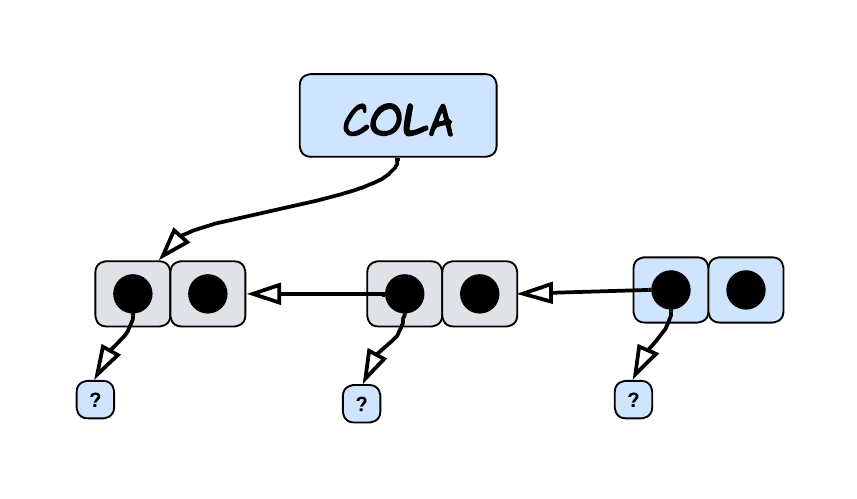
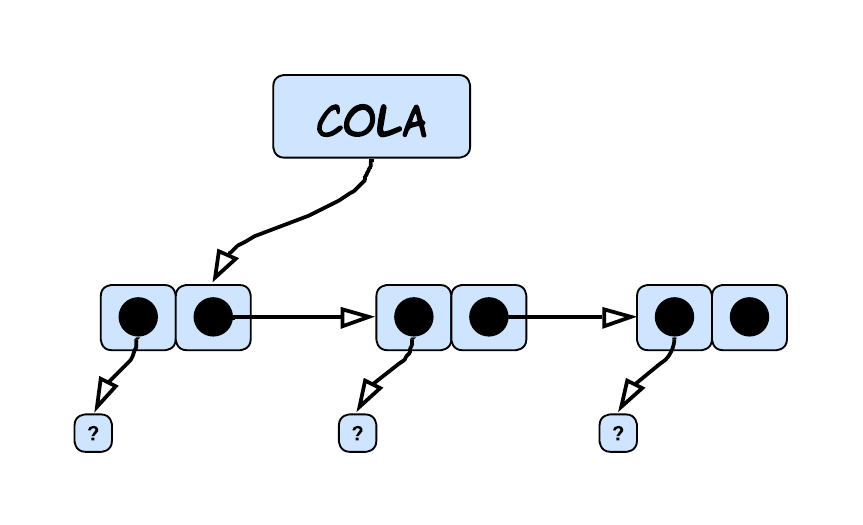
Termino pregunta 1 y 2

Changed region(s): [[0.0607, 0.1202, 0.9405, 0.8717]]

diff --git a/README.md b/README.md
@@ -193,9 +193,9 @@ Esta función es muy útil a la hora de querer insertar, eliminar y buscar un el
 
 ## Respuestas a las preguntas teóricas 
 
-**1.** Una Lista, Pila y Cola son tipos de datos abstractos (TDA), los cuales nos permiten almacenar elementos de cualquier tipo de dato. Cada uno de estos TDA tienen un conjunto mínimo de operaciones, algunas son similares entre los TDA y otras no tanto. El conjunto mínimo de operaciones son los siguientes: *crear*, *destruir*, *insertar*, *eliminar*, *vacía* y *ver elemento*.
+**1.** Una Lista, Pila y Cola son tipos de datos abstractos (TDA), los cuales nos permiten almacenar elementos de cualquier tipo de dato. Cada uno de estos TDA tienen un conjunto mínimo de operaciones, los cuales son los siguientes: *crear*, *destruir*, *insertar*, *eliminar*, *vacía* y *ver elemento*.
 
-Las operaciones de *crear**, *destruir* y *vacía*, funcionan de la misma manera en los tres TDA. La función que cumplen es crear, destruir y determinar si tiene elementos una lista, cola o pila. Las que valen la pena hacer hincapié en cada TDA son la de *insertar*, *eliminar* y *ver elemento*, pues estas si son diferentes en cada uno.
+Las operaciones de *crear**, *destruir* y *vacía* funcionan de la misma manera en los tres TDA. La función que cumplen es crear, destruir y determinar si tiene elementos una lista, cola o pila. Las que valen la pena hacer hincapié en cada TDA son la de *insertar*, *eliminar* y *ver elemento*, pues estas si son diferentes en cada uno.
 
 **LISTA**: Para este TDA, se puede utilizar la implementación de lista simplemente enlazada con una referencia al primer elemento y al último.
 
@@ -207,21 +207,21 @@ Las operaciones de *crear**, *destruir* y *vacía*, funcionan de la misma manera
 
 ---
 
-- La operación de *insertar* no tiene ninguna restricción, el usuario puede insertar un elemento en cualquier parte de mi lista, si es que esta posición existe. A la hora de insertar un elemento pueden darse 3 casos diferentes.
+- La operación de *insertar* no tiene ninguna restricción, el usuario puede insertar un elemento en cualquier parte de la lista, si es que esta posición existe. A la hora de insertar un elemento pueden darse tres casos situaciones.
 
-  - *1)* El primer caso consiste en querer insertar un elemento en la primera posición de mi lista. 
+  - *1)* Insertar un elemento en la primera posición de mi lista.
 
-  - *2)* El segundo caso consiste en insertar un elemento en la última posición de mi lista.
+  - *2)* Insertar un elemento en la última posición de mi lista.
 
-  - *3)* El último caso consiste en querer insertar el elemento en una posición aleatoria, puede ser en la primera, medio o final.
+  - *3)* Insertar el elemento en una posición aleatoria, puede ser en la primera, medio o final.
 
-- Para la operación de *eliminar* tampoco nos encontramos con alguna restricción, el usuario puede eliminar elementos de cualquier posición, también si es que dicha posición existe. En esta también se pueden dar 3 casos diferentes.
+- Para la operación de *eliminar* tampoco nos encontramos con alguna restricción, el usuario puede eliminar elementos de cualquier posición, también si es que dicha posición existe. En esta también se pueden dar tres casos situaciones.
 
-  - *1)* El primer caso consiste en querer eliminar el elemento que está en la primera posición.
+  - *1)* Eliminar el elemento que está en la primera posición. 
 
-  - *2)* El segundo caso consiste en querer eliminar el elemento que se encuentra en una posición aleatoria, puede ser la primera, una cualquiera o la última.
+  - *2)* Eliminar el elemento que se encuentra en una posición aleatoria, puede ser la primera, una cualquiera o la última.
 
-  - *3)* Por último el tercer caso consiste en querer eliminar el elemento que se encuentra en la última posición.
+  - *3)* Eliminar el elemento que se encuentra en la última posición.
 
 - Por último para la operación de *ver elemento*, el usuario puede ver cualquier elemento que se encuentre en la lista.
 
@@ -261,81 +261,82 @@ Como los TDA anteriores, una cola lo que hace es almacenar elementos, pero en es
 
 - Por último la operación de *ver elemento*, consiste en que el usuario solamente puede ver el elemento que está en la primera posición.
 
-**2.** Hay distintas formas de poder implementar el TDA de lista, en este caso voy a comparar tres diferentes implementaciones: lista *simplemente enlazada*, *doblemente enlazada* y *vector dinámico*. Para cada una de estas implementaciones voy a analizar cómo se inserta, obtiene y elimina un elemento en diferentes posiciones.
+**2.** Hay distintas formas de poder implementar el TDA de lista, en este caso voy a comparar tres diferentes implementaciones: lista *simplemente enlazada*, *doblemente enlazada* y *vector dinámico*. Para cada una de estas implementaciones voy a analizar cómo se inserta, obtiene y elimina un elemento en diferentes posiciones. En el caso de los nodos, vamos a tener un puntero al primer elemento y al ultimo de la lista. No uso esa implementacion para el vector, pues no tiene sentido.
 
-Antes de empezar a explicar las operaciones, voy a mencionar por encima como funciona cada implementación. El *vector dinámico* consiste en tener un vector de un tamaño no fijo, el cual puedo ir agrandando o reduciendo a medida que se insertan o eliminan elementos. La lista *simplemente enlazada* y *doblemente enlazada* consisten en utilizar un TDA llamado nodos. Los nodos almacenan dos cosas, un elemento `(void*)` y la dirección de memoria del nodo que le sigue (en el caso de la doblemente enlazada tengo la direccion del anterior y el siguiente), pues los nodos funcionan como una especie de vector dinámico, el cual nos permite almacenar elementos sin necesidad de tener bloques contiguos de memoria libre.
+Antes de empezar a explicar las operaciones, voy a mencionar por encima como funciona cada implementación. El *vector dinámico* consiste en tener un vector de un tamaño no fijo, el cual puedo ir agrandando o reduciendo a medida que se insertan o eliminan elementos. La lista *simplemente enlazada* y *doblemente enlazada* consisten en utilizar un TDA llamado nodos. Los nodos almacenan un elemento `(void*)` y la dirección de memoria del nodo que le sigue (en el caso de la doblemente enlazada tengo la direccion del anterior y el siguiente), pues los nodos funcionan como una especie de vector dinámico, el cual nos permite almacenar elementos sin necesidad de tener bloques contiguos de memoria libre.
+
 La forma la cual tendrán estas implementaciones sería la siguiente:
 
 ---
 
 <div align="center">
-<img width="80%" src="img/implementaciones.png">
+<img width="100%" src="img/implementaciones.png">
 </div>
 
 ---
 
 Si queremos insertar, eliminar o ver un elemento en una lista, se pueden dar 3 casos diferentes:
 
-- El primero sería insertar un elemento en la primera posición de nuestra lista. En el caso de la lista *simplemente enlazada* lo que debemos hacer es usar la referencia de `nodo_inicio` para hacer que `nodo_nuevo` apunte a donde estaba apuntando `nodo_inicio`, luego `nodo_inicio` debe apuntar a `nuevo_nodo`. Para la *doblemente enlazada* se realiza una operación similar, con la única diferencia de que `nodo_primero` apunta a `nodo_nuevo`. La complejidad de estos casos es `O(1)`, pues lo único que estamos haciendo son operaciones simples, como asignar nuevas direcciones de memoria a punteros. En cuanto al caso del *vector dinámico* lo que debemos hacer, en el peor de los casos, es agrandar el bloque de memoria usando `realloc()`. Por lo tanto estamos realizando una operación de `O(n)`. Además debemos correr todos los elementos un lugar a la derecha, a partir de la primera posición, para así poder "dejarle el lugar" al nuevo elemento (otra operación `O(n)`). Pero finalmente la complejidad total de insertar seria `O(n)`, la cual es peor a la de la implementación de *simplemente enlazada* y  *doblemente enlazada*.
+- El primero sería insertar un elemento en la primera posición de nuestra lista. En el caso de la lista *simplemente enlazada* lo que debemos hacer es usar el puntero `nodo_inicio` para hacer que `nodo_nuevo` apunte a donde esta apuntando `nodo_inicio`, luego `nodo_inicio` debe apuntar a `nuevo_nodo`. Para la *doblemente enlazada* se realiza una operación similar, con la única diferencia de que `nodo_primero` apunta a `nodo_nuevo`. La complejidad de estos casos es `O(1)`, pues lo único que estamos haciendo son operaciones simples, como asignar nuevas direcciones de memoria a punteros. En cuanto al caso del *vector dinámico* lo que debemos hacer, en el peor de los casos, es agrandar el bloque de memoria usando `realloc()`. Por lo tanto estamos realizando una operación `O(n)`. Además debemos correr todos los elementos un lugar a la derecha a partir de la primera posición para así poder "dejarle el lugar" al nuevo elemento, otra operación `O(n)`. Pero finalmente la complejidad total de insertar seria `O(n)`, pues terminaria siendo una suma de operaciones `O(n)`. Aun asi, veamos que es peor a la implementación de *simplemente enlazada* y  *doblemente enlazada*.
 
 ---
 
 <div align="center">
-<img width="80%" src="img/insertar_principio.png">
+<img width=100%" src="img/insertar_principio.png">
 </div>
 
 ---
 
-- En cuanto a querer eliminar un elemento, en la lista *simplemente enlazada*, usamos la referencia que tiene `nodo_inicio` al `nodo_primero` y hacemos que un puntero `aux` apunte a `nodo_primero`. Luego `nodo_primero` debe apuntar al siguiente de `nodo_inicio`. En el caso de la *doblemente enlazada* también es muy similar el proceso, solo que ahora no necesitamos usar un `aux`, directamente accedemos a `nodo_eliminar` y hacemos que `nodo_inicio` apunte a `nodo_primero`, luego `nodo_primero` apunta a `NULL`.En ambas implementaciones la complejidad total seria `O(1)`, pues solamente estamos haciendo operaciones simples. Ahora en el caso de la implementación de *vector dinámico*, lo que deberíamos hacer es eliminar el elemento que está en la primera posición y luego mover todos los elementos restantes un lugar a la izquierda. También nuevamente debemos usar `realloc()`. Por lo tanto la complejidad de toda esta operación es `O(n)`, luego veamos que también es peor en comparación con la implementación de nodos.
+- En cuanto a querer eliminar un elemento, en la lista *simplemente enlazada* usamos el puntero `nodo_inicio` y hacemos que un puntero `aux` apunte a `nodo_primero`. Luego `nodo_inicio` debe apuntar al siguiente de `nodo_primero`. En el caso de la *doblemente enlazada* también es muy similar el proceso, solo que ahora no necesitamos usar un `aux`. Ahora usando `nodo_inicio` accedemos a `nodo_eliminar` y hacemos que `nodo_inicio` apunte al siguiente de `nodo_eliminar`, luego el puntero por izquierda de del siguiente a `nodo_eliminar` debe apuntar a `NULL`. En ambas implementaciones la complejidad total seria `O(1)`, pues solamente estamos haciendo operaciones simples. Ahora en el caso de la implementación de *vector dinámico*, lo que deberíamos hacer es eliminar el elemento que está en la primera posición y luego mover todos los elementos restantes un lugar a la izquierda. A su vez nuevamente debemos usar `realloc()`. Por lo tanto la complejidad de toda esta operación es `O(n)`, luego veamos que también es peor en comparación con la implementación de nodos.
 
 ---
 
 <div align="center">
-<img width="80%" src="img/eliminar_principio.png">
+<img width="100%" src="img/eliminar_principio.png">
 </div>
 
 ---
 
-- Por último, si queremos ver un elemento en la primera posición. Para todas las implementaciones la complejidad es `O(1)`, pues lo único que debemos hacer es ir a una dirección de memoria del primer elemento, de esta en los tres casos tenemos una referencia directa.
+- Por último, si queremos ver un elemento en la primera posición, para todas las implementaciones la complejidad es `O(1)`. Pues lo único que debemos hacer acceder a la dirección de memoria del primer elemento, de esta en los tres casos tenemos una puntero directo. En el caso de los nodos `nodo_inicio` y en el del vector solo basta con hacer `vector[0]`.
 
-- El segundo caso sería querer insertar un elemento en la posición `n`. En la lista *simplemente enlazada* lo que debemos hacer es recorrer los nodos hasta llegar a `n-1`, sería el anterior a donde queremos insertar. Ahora`nodo_nuevo` debe apuntar a donde está apuntando `nodo_anterior`, y `nodo_anterior` debe apuntar a `nodo_nuevo`. En la lista *doblemente enlazada* también es muy similar el proceso, la única diferencia es que ahora debemos hacer que `nuevo_nodo` apunte a `nodo_anterior` y`nodo_siguiente`, y viceversa. Veamos que para esta implementación la complejidad `O(n)`, pues debemos recorrer hasta la posición `n-1` y hacer algunas operaciones simples que no aportan al tamaño del problema. Por último para el *vector dinámico* debemos agrandar nuevamente el bloque de memoria con `realloc()` y mover todos los elementos un lugar a la derecha, a partir la posición `n`, para así poder insertar el nuevo elemento. Por lo tanto en este caso también la complejidad sería `O(n)`, pero si lo comparamos con la  implementación de nodos esta resulta ser peor, pues realizamos 3 operaciones de `O(n)`
+- El segundo caso sería querer insertar un elemento en la posición `n`. En la lista *simplemente enlazada* lo que debemos hacer es recorrer los nodos hasta llegar a `n-1`, sería el anterior a donde queremos insertar. Ahora `nodo_nuevo` debe apuntar a donde está apuntando `nodo_anterior` y `nodo_anterior` debe apuntar a `nodo_nuevo`. En la lista *doblemente enlazada* también es muy similar el proceso, la única diferencia es que ahora debemos hacer que `nuevo_nodo` apunte a `nodo_anterior`, `nodo_siguiente`, y viceversa. Veamos que para esta implementación la complejidad es `O(n)`, pues debemos recorrer hasta la posición `n-1` y hacer algunas operaciones simples que no aportan al tamaño del problema. Para el *vector dinámico* debemos agrandar nuevamente el bloque de memoria con `realloc()` y mover todos los elementos un lugar a la derecha a partir la posición `n`, para así poder insertar el nuevo elemento. Por lo tanto en este caso también la complejidad sería `O(n)`, pero si lo comparamos con la  implementación de nodos esta resulta ser peor, pues realizamos tres operaciones de `O(n)`.
 
 ---
 
 <div align="center">
-<img width="80%" src="img/insertar_medio.png">
+<img width="100%" src="img/insertar_medio.png">
 </div>
 
 ---
 
-- Para eliminar un elemento en la posición `n`, en la lista *simplemente enlazada* debemos recorrer hasta `n-1` y usar `nodo_anterior` para que un `aux` apunte a `nodo_eliminar`. Antes de eliminarlo debemos hacer que `nodo_anterior` apunte a donde estaba apuntado `nodo_eliminar`. En la lista *doblemente enlazada* debemos hacer lo mismo solo que ahora recorremos hasta la posición `n` y usando las referencias que tiene `nodo_eliminar` para que los nodos que tiene a su lado se apunten entre sí. Veamos que para ambos casos la operación es `O(n)`, pues en el peor de los casos recorremos hasta la `n`, `n-1` posición de la lista. Ahora viendo el caso del *vector dinámico* lo que habría que hacer es recorrer hasta la posición `n` y pisarla con el elemento de la posición `n+1` y así a `n+1` lo pisamos con `n+2`. Luego debemos mover todos los elementos a una posición a la izquierda y por último usar `realloc()`. Pero aún así, veamos que la operación es `O(n)`, pero si lo comparamos con las implementaciones de nodos esta es peor porque debemos recorrer el vector dos veces, aunque ambas por separado.
+- Para eliminar un elemento en la posición `n`, en la lista *simplemente enlazada* debemos recorrer hasta el `nodo_anterior` a la posicion donde queremos insertar, es decir, `n-1`. Luego un puntero `aux` debe apuntar al siguiente de `nodo_anterior`, es decir, a `nodo_eliminar`. Antes de eliminarlo debemos hacer que `nodo_anterior` apunte a donde esta apuntado `nodo_eliminar`. En la lista *doblemente enlazada* debemos hacer lo mismo solo que ahora recorremos hasta la posición `n` y usando los punteros al anterior y al siguiente que tiene `nodo_eliminar`, hacemos que los nodos que tiene a su lado se apunten entre sí. Luego podemos eliminar el `nodo_eliminar` sin perder ningun nodo. Notemos que no hizo falta nigun puntero `aux` para la lista *doblemente enlazada*. Tambien veamos que para ambos casos la operación es `O(n)`, pues en el peor de los casos recorremos hasta la `n` / `n-1` posición de la lista. Ahora viendo el caso del *vector dinámico* lo que habría que hacer es recorrer hasta la posición `n` y pisarla con el elemento de la posición `n+1` y a `n+1` lo pisamos con `n+2`. Luego debemos mover todos los elementos a una posición a la izquierda y por último usar `realloc()`. Luego la complejidad de la operación es `O(n)`. Entonces si lo comparamos con las implementaciones de nodos esta es peor porque debemos recorrer el vector dos veces, aunque ambas por separado.
 
 ---
 
 <div align="center">
-<img width="80%" src="img/eliminar_medio.png">
+<img width="100%" src="img/eliminar_medio.png">
 </div>
 
 ---
 
 - Si queremos ver un elemento en la posición del medio, en todos los casos debemos recorrer hasta la posición `n`. Así que la complejidad para todos sería `O(n)`.
 
-- El último caso consiste en querer insertar un elemento en la última posición de la lista. En la lista *simplemente enlazada* lo que debemos hacer es utilizar la referencia de `nodo_fin` para poder ir hasta la última posición de nuestra lista y hacer que el `nodo_ultimo` apunte a `nuevo_nodo` y luego hacemos que `nodo_fin` apunte a `nuevo_nodo`. Ahora con la lista *doblemente enlazada* el proceso es el mismo solo que ahora `nuevo_nodo` debe apuntar a `nodo_utlimo`. Observemos que la complejidad vuelve a ser `O(1)`, pues solo estamos haciendo operaciones simples. Por último usando el *vector dinámico*, debemos agrandar el bloque de memoria usando `realloc()` y después recorrer todo el vector hasta la última posición e insertar el elemento. Entonces en este caso la complejidad sigue siendo `O(n)`, la cual es peor a las dos implementaciones previas.
+- El último caso consiste en querer insertar un elemento en la última posición. En la lista *simplemente enlazada* lo que debemos hacer es utilizar el puntero `nodo_fin` para poder ir hasta la última posición de nuestra lista y hacer que el `nodo_ultimo` apunte a `nuevo_nodo` y luego hacemos que `nodo_fin` apunte a `nuevo_nodo`. Ahora con la lista *doblemente enlazada* el proceso es el mismo solo que ahora `nuevo_nodo` debe apuntar a `nodo_utlimo`. Observemos que la complejidad vuelve a ser `O(1)`, pues solo estamos haciendo operaciones simples. Por último usando el *vector dinámico*, debemos agrandar el bloque de memoria usando `realloc()` y después ir hasta la última posición del vector e insertar el elemento. Entonces en este caso la complejidad sigue siendo `O(n)` (por el uso del `realloc()`) la cual es peor a las dos implementaciones previas.
 
 ---
 
 <div align="center">
-<img width="80%" src="img/insertar_final.png">
+<img width="100%" src="img/insertar_final.png">
 </div>
 
 ---
 
-- Si queremos eliminar un elemento de la posición del final, en la lista *simplemente enlazada* debemos recorrer hasta la posición `n-1`, `nodo_anterior`, y hacer que un puntero `aux` apunte a `nodo_ultimo`. Luego modificamos que `nodo_anterior` apunte a `NULL` y después debemos recorrer todos los nodos hasta el último, para que `nodo_fin` apunte al nuevo último nodo. Ahora para la lista *doblemente enlazada* solamente usamos la referencia de `nodo_fin` al `nodo_ultimo` y usando la referencia que tiene este al `nodo_anterior`, hacemos que `nodo_fin` apunte a `nodo_anterior`. En este caso si hay una diferencia de complejidad entre las implementaciones con nodos, pues para la *simplemente enlazada* la complejidad es `O(n)`, mientras que para la *doblemente enlazada* es `O(1)`. Para la implementación de *vector dinámico* usamos directamente `realloc()`. Luego en este caso la complejidad sería `O(n)`, únicamente por haber usado `realloc()`. Veamos que la mejor implementación en este caso sería la lista *doblemente enlazada*, y la de *vector dinámico* tiene la misma complejidad que *simplemente enlazada*.
+- Si queremos eliminar un elemento de la posición del final, en la lista *simplemente enlazada* debemos recorrer hasta el`nodo_anterior`, que seria la posicion `n-1`. Y hacer que un puntero `aux` apunte a `nodo_ultimo`. Luego modificamos que `nodo_anterior` apunte a `NULL` y después debemos recorrer todos los nodos hasta el último, para hacer que `nodo_fin` apunte al nuevo último nodo. Ahora para la lista *doblemente enlazada* solamente usamos el puntero `nodo_fin` para acceder al `nodo_ultimo` y usando el puntero que tiene este al `nodo_anterior`, hacemos que `nodo_fin` apunte a `nodo_anterior`. En este caso si hay una diferencia de complejidad entre las implementaciones con nodos, pues para la *simplemente enlazada* la complejidad es `O(n)`, mientras que para la *doblemente enlazada* es `O(1)`. Para la implementación de *vector dinámico* usamos directamente `realloc()`. Luego en este caso la complejidad sería `O(n)`, únicamente por haber usado `realloc()`. Veamos que la mejor implementación en este caso sería la lista *doblemente enlazada* y la de *vector dinámico* tiene la misma complejidad que *simplemente enlazada*.
 
 ---
 
 <div align="center">
-<img width="80%" src="img/eliminar_final.png">
+<img width="100%" src="img/eliminar_final.png">
 </div>
 
 ---
